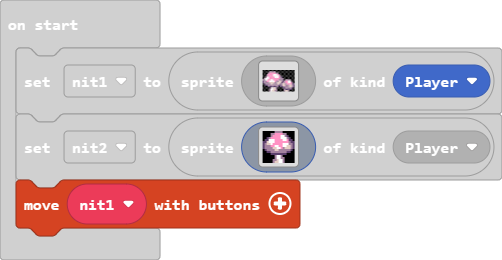
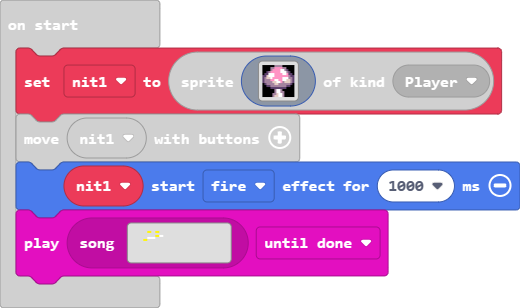
Update pxt.json, main.blocks, main.ts, images.g.jres, images.g.ts, tilemap.g.jres, tilemap.g.ts

diff --git a/main.ts b/main.ts
@@ -1,37 +1,4 @@
-let nit1 = sprites.create(img`
-    ffffffffffffffffffffffff
-    fffffbbbbbffffffffffffff
-    ffffb33333bbffffffffffff
-    fffb33331113bfffffffffff
-    fffb333311113bffffffffff
-    ffb1133331113bcfffffffff
-    fb11133333333bbbffffffff
-    bb1133113333bbbcfbbbbfff
-    cbb3311113bbddbcb3311bff
-    cbbbbddddbbdddcbb33113cf
-    fcbbbbddbbbddbbddb3333bc
-    ffccbbbbbbbbccbddbbbddbc
-    ffffcccccccbfccbbbbbddbc
-    ffffffb1ddbffffccbbbbbcf
-    fffffb11ddbfffffbcccccff
-    fffffb1ddbbfffffbddbffff
-    `, SpriteKind.Player)
-let nit2 = sprites.create(img`
-    f f f f f f b b b b f f f f f f 
-    f f f f b b 3 3 3 3 b b f f f f 
-    f f f f b 3 3 3 3 1 1 b c f f f 
-    f f c b 3 3 3 3 3 1 1 1 b c f f 
-    f c c 1 1 1 3 3 3 3 1 1 3 c c f 
-    c c d 1 1 1 3 3 3 3 3 3 3 b c c 
-    c b d d 1 3 3 3 3 3 1 1 1 b b c 
-    c b b b 3 3 1 1 3 3 1 1 d d b c 
-    c b b b b d d 1 1 3 b d d d b c 
-    f c b b b b d d b b b b b b c f 
-    f f c c b b b b b b b b c c f f 
-    f f f f c c c c c c c c f f f f 
-    f f f f f f b 1 1 b f f f f f f 
-    f f f f f f b 1 1 b b f f f f f 
-    f f f f f b b d 1 1 b f f f f f 
-    f f f f f b d d 1 1 b f f f f f 
-    `, SpriteKind.Player)
+let nit1 = sprites.create(assets.image`nit1`, SpriteKind.Player)
 controller.moveSprite(nit1)
+nit1.startEffect(effects.fire, 1000)
[1 lines of base64/hex data omitted]

diff --git a/images.g.ts b/images.g.ts
@@ -3,7 +3,25 @@ namespace myImages {
 
     helpers._registerFactory("image", function(name: string) {
         switch(helpers.stringTrim(name)) {
-
+            case "image1":
+            case "nit1":return img`
+f f f f f f b b b b f f f f f f 
+f f f f b b 3 3 3 3 b b f f f f 
+f f f f b 3 3 3 3 1 1 b c f f f 
+f f c b 3 3 3 3 3 1 1 1 b c f f 
+f c c 1 1 1 3 3 3 3 1 1 3 c c f 
+c c d 1 1 1 3 3 3 3 3 3 3 b c c 
+c b d d 1 3 3 3 3 3 1 1 1 b b c 
+c b b b 3 3 1 1 3 3 1 1 d d b c 
+c b b b b d d 1 1 3 b d d d b c 
+f c b b b b d d b b b b b b c f 
+f f c c b b b b b b b b c c f f 
+f f f f c c c c c c c c f f f f 
+f f f f f f b 1 1 b f f f f f f 
+f f f f f f b 1 1 b b f f f f f 
+f f f f f b b d 1 1 b f f f f f 
+f f f f f b d d 1 1 b f f f f f 
+`;
         }
         return null;
     })

diff --git a/tilemap.g.ts b/tilemap.g.ts
@@ -1,0 +1,14 @@
+// Auto-generated code. Do not edit.
+namespace myTiles {
+    //% fixedInstance jres blockIdentity=images._tile
+    export const transparency16 = image.ofBuffer(hex``);
+
+    helpers._registerFactory("tile", function(name: string) {
+        switch(helpers.stringTrim(name)) {
+            case "transparency16":return transparency16;
+        }
+        return null;
+    })
+
+}
+// Auto-generated code. Do not edit.
